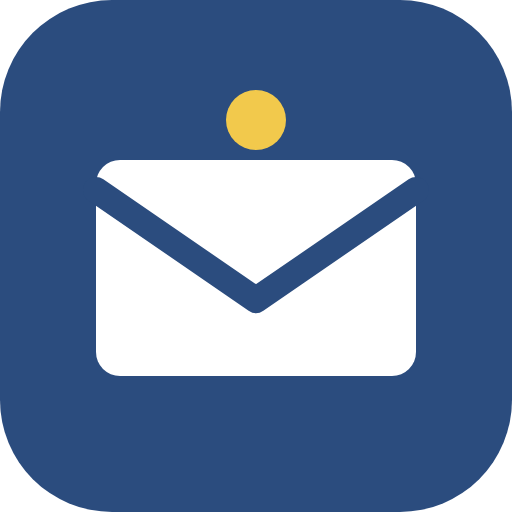
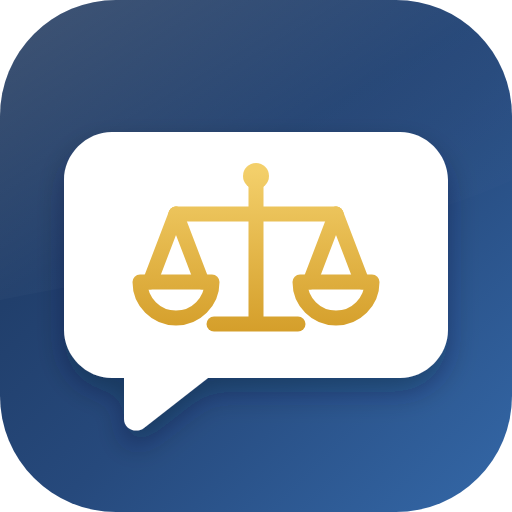
ホーム画面のアイコンを新デザインにし、古いアイコンのキャッシュを更新する
- 紺のグラデーションに白い吹き出し、金の天秤を配したアイコンに刷新（icon.svg）
  apple-touch-icon（180）、192、512、maskable（安全領域内に配置）を Chromium で描画し直した
- apple-touch-icon に sizes を付け、アイコン参照に ?v=2 を付けて再追加時に新しい画像が使われるようにした
- Service Worker のキャッシュ名を v2 に上げ、古いアイコンのキャッシュを捨てる

Claude-Session: https://claude.ai/code/session_01GDzWoRZELGBPjA5ETCKbwH

diff --git a/apps/web/index.html b/apps/web/index.html
@@ -10,8 +10,8 @@
     <meta name="apple-mobile-web-app-title" content="事務所アプリ" />
     <meta name="mobile-web-app-capable" content="yes" />
     <link rel="manifest" href="/manifest.json" />
-    <link rel="icon" href="/icon.svg" type="image/svg+xml" />
-    <link rel="apple-touch-icon" href="/apple-touch-icon.png" />
+    <link rel="icon" href="/icon.svg?v=2" type="image/svg+xml" />
+    <link rel="apple-touch-icon" sizes="180x180" href="/apple-touch-icon.png?v=2" />
     <title>統合コミュニケーション管理</title>
   </head>
   <body>

diff --git a/apps/web/public/sw.js b/apps/web/public/sw.js
@@ -1,5 +1,5 @@
 /* 最小限のサービスワーカー。画面の骨格だけをキャッシュし、API は常にネットワークへ */
-const VERSION = 'lcm-shell-v1';
+const VERSION = 'lcm-shell-v2';
 const SHELL = ['/', '/manifest.json', '/icon.svg', '/icon-192.png'];
 
 self.addEventListener('install', (event) => {
